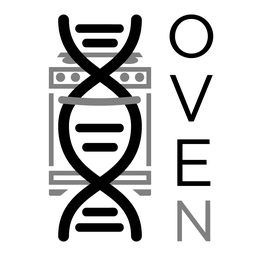
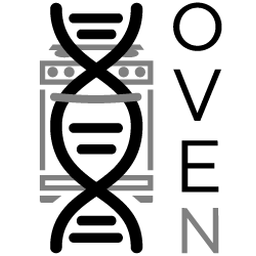
Rename the package to oven
The extension ID becomes gordonrix.oven. Doing this now because an ID is only
free to change before the first publish -- afterwards it is permanent.

Command and setting IDs keep their oveCart. prefix on purpose: those are what
settings.json and any keybindings refer to, and renaming them would silently
reset existing settings for no visible gain.

Also: the redesigned icon, squared to 256x256 so the Marketplace tile is not
letterboxed; logo.png dropped, since icon.png is now the source; .DS_Store
untracked and ignored.

diff --git a/CHANGELOG.md b/CHANGELOG.md
@@ -19,6 +19,12 @@ area and opens what you drop as a new tab; the webview underneath never sees it.
 full-screen window — where the pointer can reach the panel without crossing anything else —
 and fail in a smaller one. The drop hint in the panel now says so.
 
+**Renamed to OVEN.** The package is now `oven`, so the extension ID is
+`gordonrix.oven` rather than `gordonrix.ove-vscode-primer-cart`. Done before the first
+publish, while an ID is still free to change — afterwards it is permanent. Command and
+setting IDs keep their `oveCart.` prefix: renaming those would silently reset every
+existing setting.
+
 Also in this release: a proper Marketplace icon.
 
 ## 1.18.0

diff --git a/README.md b/README.md
@@ -107,7 +107,7 @@ Not published to the Marketplace. Build and sideload:
 ```sh
 npm install
 npm run package
-code --install-extension ove-vscode-primer-cart-1.18.0.vsix --force
+code --install-extension oven-1.19.0.vsix --force
 ```
 
 If you have the original `sanekun.openvectoreditor` installed, uninstall it — otherwise
